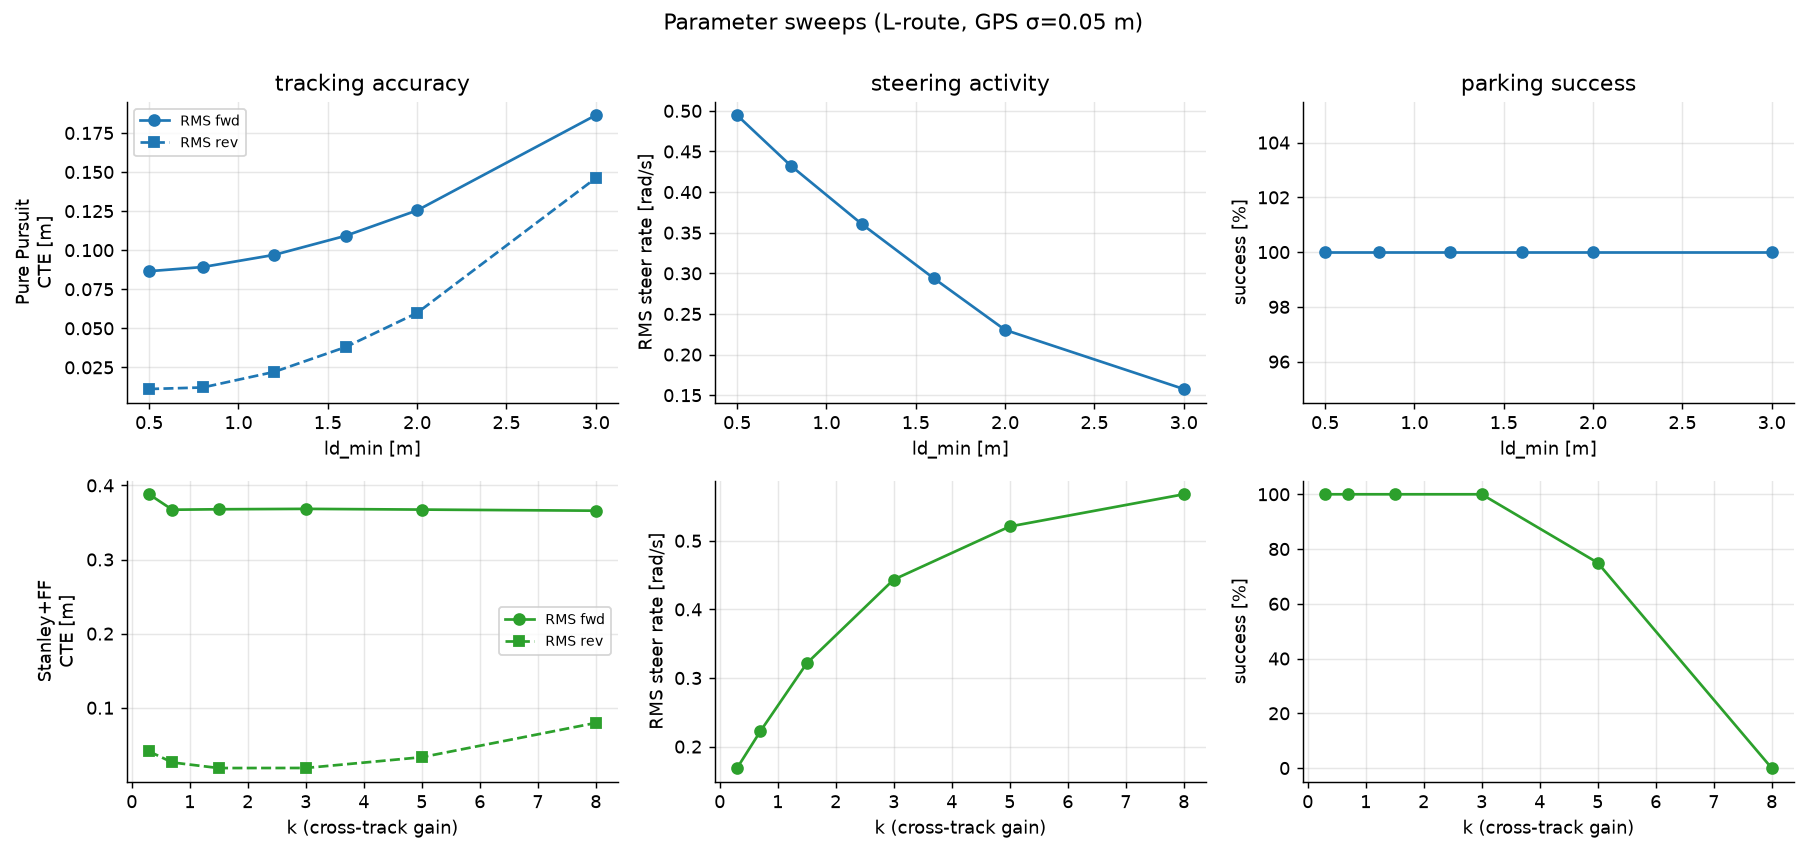
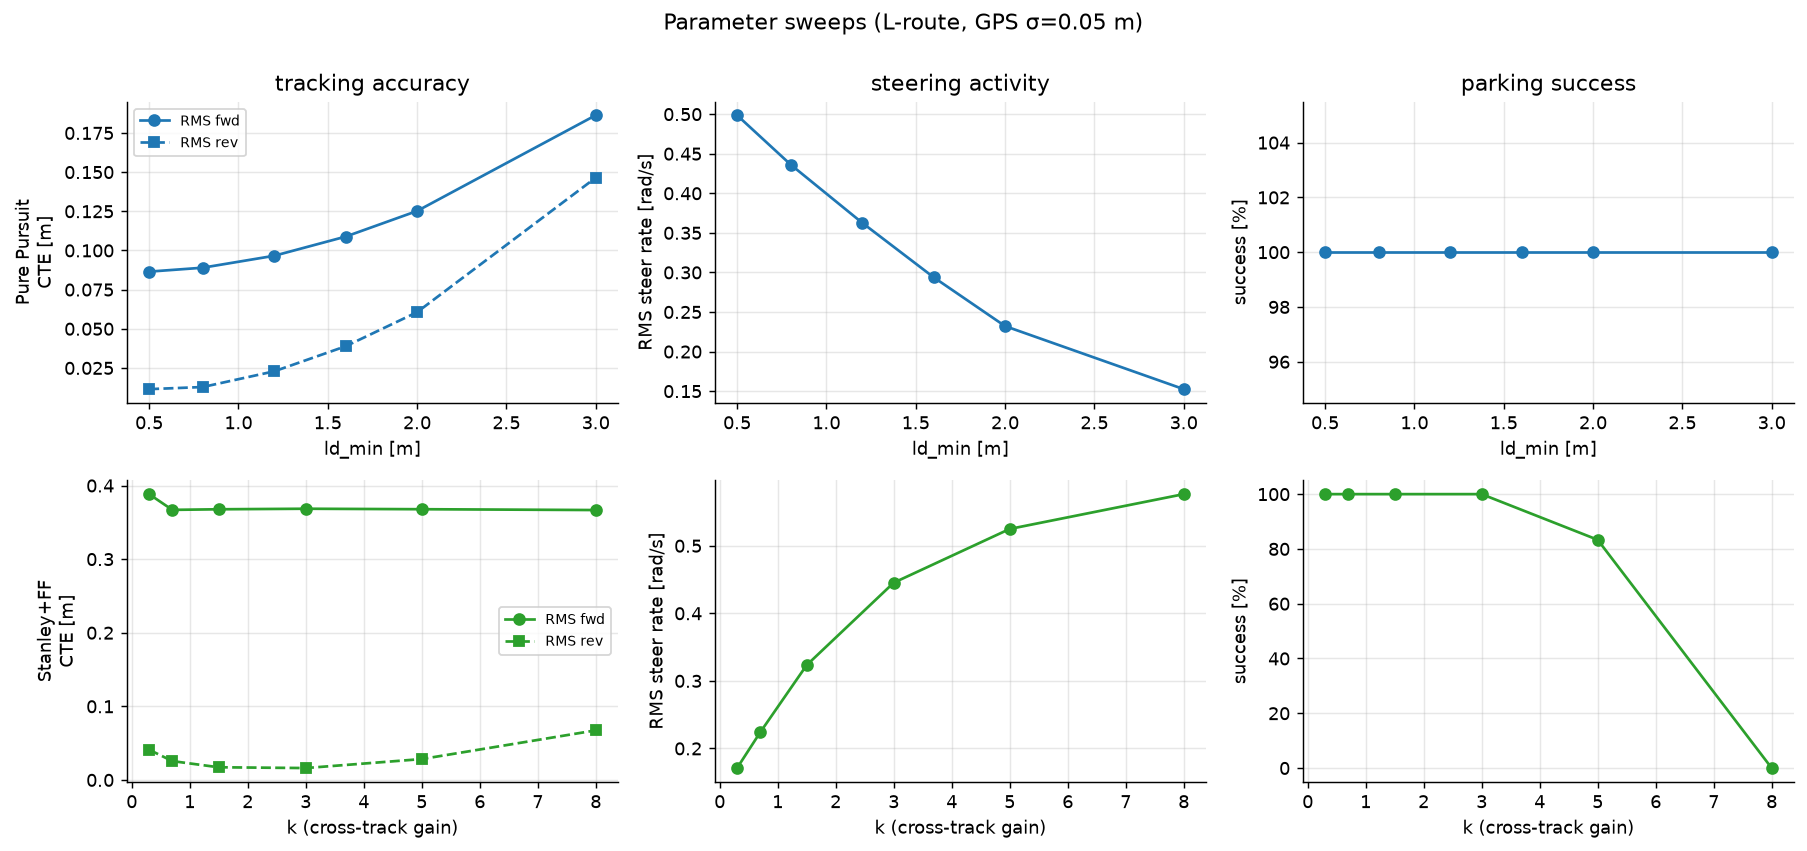
Update M4 results with full run~

diff --git a/results/m4/tables.md b/results/m4/tables.md
@@ -16,22 +16,22 @@
 
 CTE = true rear-axle cross-track error. Success: |lat| ≤ 20 cm, |long| ≤ 30 cm, |yaw| ≤ 3°.
 
-### E2 – Look-ahead / gain sweep (L-route, GPS σ = 0.05 m, 4 seeds)
+### E2 – Look-ahead / gain sweep (L-route, GPS σ = 0.05 m, 6 seeds)
 
 | controller | param | value | RMS CTE fwd [m] | RMS CTE rev [m] | Max CTE rev [m] | RMS steer rate [rad/s] | Final lat [cm] | Success [%] |
 |---|---|---|---|---|---|---|---|---|
-| Pure Pursuit | ld_min [m] | 0.500 | 0.087 | 0.011 | 0.022 | 0.495 | 0.385 | 100 |
-| Pure Pursuit | ld_min [m] | 0.800 | 0.089 | 0.012 | 0.029 | 0.433 | 0.433 | 100 |
-| Pure Pursuit | ld_min [m] | 1.200 | 0.097 | 0.022 | 0.054 | 0.360 | 0.484 | 100 |
-| Pure Pursuit | ld_min [m] | 1.600 | 0.109 | 0.038 | 0.085 | 0.294 | 2.638 | 100 |
-| Pure Pursuit | ld_min [m] | 2.000 | 0.125 | 0.060 | 0.121 | 0.230 | 5.928 | 100 |
-| Pure Pursuit | ld_min [m] | 3.000 | 0.186 | 0.146 | 0.235 | 0.158 | 17.977 | 100 |
-| Stanley+FF | k (cross-track gain) | 0.300 | 0.388 | 0.041 | 0.073 | 0.169 | 3.749 | 100 |
-| Stanley+FF | k (cross-track gain) | 0.700 | 0.367 | 0.026 | 0.051 | 0.222 | 3.225 | 100 |
-| Stanley+FF | k (cross-track gain) | 1.500 | 0.368 | 0.019 | 0.037 | 0.321 | 1.639 | 100 |
-| Stanley+FF | k (cross-track gain) | 3.000 | 0.368 | 0.019 | 0.036 | 0.443 | 0.853 | 100 |
-| Stanley+FF | k (cross-track gain) | 5.000 | 0.367 | 0.033 | 0.062 | 0.521 | 1.931 | 75 |
-| Stanley+FF | k (cross-track gain) | 8.000 | 0.366 | 0.080 | 0.167 | 0.568 | 6.455 | 0 |
+| Pure Pursuit | ld_min [m] | 0.500 | 0.086 | 0.011 | 0.023 | 0.499 | 0.338 | 100 |
+| Pure Pursuit | ld_min [m] | 0.800 | 0.089 | 0.013 | 0.031 | 0.436 | 0.327 | 100 |
+| Pure Pursuit | ld_min [m] | 1.200 | 0.097 | 0.023 | 0.056 | 0.363 | 0.559 | 100 |
+| Pure Pursuit | ld_min [m] | 1.600 | 0.109 | 0.039 | 0.086 | 0.294 | 2.720 | 100 |
+| Pure Pursuit | ld_min [m] | 2.000 | 0.125 | 0.061 | 0.122 | 0.232 | 6.029 | 100 |
+| Pure Pursuit | ld_min [m] | 3.000 | 0.186 | 0.146 | 0.235 | 0.153 | 18.068 | 100 |
+| Stanley+FF | k (cross-track gain) | 0.300 | 0.388 | 0.041 | 0.072 | 0.171 | 3.685 | 100 |
+| Stanley+FF | k (cross-track gain) | 0.700 | 0.367 | 0.026 | 0.050 | 0.224 | 3.065 | 100 |
+| Stanley+FF | k (cross-track gain) | 1.500 | 0.368 | 0.017 | 0.034 | 0.323 | 1.597 | 100 |
+| Stanley+FF | k (cross-track gain) | 3.000 | 0.368 | 0.016 | 0.032 | 0.445 | 0.706 | 100 |
+| Stanley+FF | k (cross-track gain) | 5.000 | 0.368 | 0.028 | 0.055 | 0.525 | 1.764 | 83 |
+| Stanley+FF | k (cross-track gain) | 8.000 | 0.367 | 0.067 | 0.143 | 0.576 | 7.256 | 0 |
 
 ### E3a – Speed-PID step response (0 → 2 m/s)
 
@@ -54,40 +54,40 @@ CTE = true rear-axle cross-track error. Success: |lat| ≤ 20 cm, |long| ≤ 30 
 | P only + FF | 0.148 | 2.671 | 2.911 | 30.126 | 100 |
 | PI aggressive + FF | 0.045 | 4.325 | 4.690 | 27.798 | 100 |
 
-### E4 – Robustness to GPS/compass noise, with and without the pose filter (L-route, 6 seeds per cell)
+### E4 – Robustness to GPS/compass noise, with and without the pose filter (L-route, 20 seeds per cell)
 
 | GPS σ [m] | controller | RMS CTE [m] | ± std | Max CTE rev [m] | Final lat [cm] | ± std  | Final long [cm] | ± std   | Final yaw [deg] | Success [%] |
 |---|---|---|---|---|---|---|---|---|---|---|
-| 0.000 | Pure Pursuit | 0.075 | 0.000 | 0.057 | 0.677 | 0.074 | 0.715 | 0.210 | 0.615 | 100 |
-| 0.000 | Stanley+FF | 0.275 | 0.001 | 0.032 | 1.497 | 0.049 | 0.610 | 0.202 | 0.672 | 100 |
-| 0.000 | Stanley | 0.391 | 0.002 | 0.672 | 14.721 | 0.115 | 0.621 | 0.237 | 3.585 | 0 |
-| 0.000 | Pure Pursuit + filter | 0.073 | 0.000 | 0.055 | 0.561 | 0.085 | 0.676 | 0.133 | 0.564 | 100 |
-| 0.000 | Stanley+FF + filter | 0.274 | 0.001 | 0.038 | 1.601 | 0.019 | 0.708 | 0.275 | 0.727 | 100 |
-| 0.020 | Pure Pursuit | 0.074 | 0.000 | 0.056 | 0.642 | 0.080 | 0.272 | 0.315 | 0.595 | 100 |
-| 0.020 | Stanley+FF | 0.275 | 0.001 | 0.033 | 1.535 | 0.135 | 0.673 | 0.600 | 0.670 | 100 |
-| 0.020 | Stanley | 0.390 | 0.003 | 0.670 | 14.798 | 0.278 | 1.224 | 0.526 | 3.542 | 0 |
-| 0.020 | Pure Pursuit + filter | 0.073 | 0.000 | 0.054 | 0.528 | 0.094 | 0.660 | 0.336 | 0.543 | 100 |
-| 0.020 | Stanley+FF + filter | 0.274 | 0.001 | 0.038 | 1.733 | 0.165 | 0.680 | 0.283 | 0.737 | 100 |
-| 0.050 | Pure Pursuit | 0.075 | 0.001 | 0.056 | 0.542 | 0.242 | 2.009 | 0.826 | 0.551 | 100 |
-| 0.050 | Stanley+FF | 0.278 | 0.002 | 0.034 | 1.639 | 0.409 | 2.162 | 1.239 | 0.726 | 100 |
-| 0.050 | Stanley | 0.393 | 0.004 | 0.671 | 14.980 | 0.461 | 2.360 | 0.632 | 3.574 | 0 |
-| 0.050 | Pure Pursuit + filter | 0.073 | 0.001 | 0.053 | 0.468 | 0.206 | 1.142 | 0.698 | 0.512 | 100 |
-| 0.050 | Stanley+FF + filter | 0.274 | 0.002 | 0.039 | 1.946 | 0.396 | 0.687 | 0.492 | 0.766 | 100 |
-| 0.100 | Pure Pursuit | 0.076 | 0.001 | 0.057 | 0.535 | 0.207 | 6.194 | 2.306 | 0.404 | 100 |
-| 0.100 | Stanley+FF | 0.282 | 0.003 | 0.038 | 1.752 | 0.784 | 9.208 | 4.154 | 0.725 | 100 |
-| 0.100 | Stanley | 0.397 | 0.005 | 0.680 | 16.581 | 0.899 | 7.653 | 2.579 | 3.509 | 17 |
-| 0.100 | Pure Pursuit + filter | 0.073 | 0.001 | 0.051 | 0.518 | 0.152 | 1.516 | 0.714 | 0.465 | 100 |
-| 0.100 | Stanley+FF + filter | 0.275 | 0.003 | 0.043 | 2.337 | 0.762 | 0.770 | 0.753 | 0.824 | 100 |
-| 0.200 | Pure Pursuit | 0.084 | 0.004 | 0.087 | 0.780 | 0.705 | 22.457 | 5.887 | 0.613 | 83 |
-| 0.200 | Stanley+FF | 0.293 | 0.007 | 0.063 | 2.555 | 2.307 | 19.157 | 4.427 | 0.830 | 100 |
-| 0.200 | Stanley | 0.421 | 0.008 | 0.720 | 21.097 | 2.710 | 27.353 | 10.181 | 4.569 | 0 |
-| 0.200 | Pure Pursuit + filter | 0.075 | 0.002 | 0.053 | 0.685 | 0.523 | 2.329 | 0.923 | 0.401 | 100 |
-| 0.200 | Stanley+FF + filter | 0.276 | 0.006 | 0.055 | 3.267 | 1.493 | 1.639 | 1.067 | 0.998 | 100 |
-| 0.300 | Pure Pursuit | 0.100 | 0.008 | 0.135 | 1.059 | 0.940 | 41.161 | 9.362 | 1.189 | 0 |
-| 0.300 | Stanley+FF | 0.305 | 0.011 | 0.092 | 3.841 | 4.172 | 29.252 | 9.217 | 1.266 | 50 |
-| 0.300 | Stanley | 0.443 | 0.014 | 0.760 | 25.012 | 4.595 | 39.927 | 10.842 | 6.547 | 0 |
-| 0.300 | Pure Pursuit + filter | 0.078 | 0.004 | 0.060 | 0.931 | 0.917 | 3.584 | 2.244 | 0.539 | 100 |
-| 0.300 | Stanley+FF + filter | 0.277 | 0.009 | 0.070 | 4.136 | 2.308 | 4.259 | 4.856 | 1.179 | 83 |
+| 0.000 | Pure Pursuit | 0.075 | 0.000 | 0.057 | 0.697 | 0.111 | 0.738 | 0.239 | 0.582 | 100 |
+| 0.000 | Stanley+FF | 0.275 | 0.001 | 0.033 | 1.449 | 0.086 | 0.621 | 0.194 | 0.666 | 100 |
+| 0.000 | Stanley | 0.391 | 0.002 | 0.674 | 14.743 | 0.216 | 0.613 | 0.182 | 3.556 | 0 |
+| 0.000 | Pure Pursuit + filter | 0.073 | 0.000 | 0.055 | 0.576 | 0.126 | 0.722 | 0.319 | 0.538 | 100 |
+| 0.000 | Stanley+FF + filter | 0.274 | 0.002 | 0.039 | 1.548 | 0.100 | 0.631 | 0.263 | 0.720 | 100 |
+| 0.020 | Pure Pursuit | 0.074 | 0.000 | 0.057 | 0.679 | 0.151 | 0.587 | 0.574 | 0.579 | 100 |
+| 0.020 | Stanley+FF | 0.275 | 0.002 | 0.034 | 1.384 | 0.247 | 0.673 | 0.462 | 0.650 | 100 |
+| 0.020 | Stanley | 0.391 | 0.003 | 0.674 | 14.798 | 0.343 | 0.959 | 0.531 | 3.557 | 0 |
+| 0.020 | Pure Pursuit + filter | 0.073 | 0.000 | 0.055 | 0.557 | 0.169 | 0.774 | 0.447 | 0.539 | 100 |
+| 0.020 | Stanley+FF + filter | 0.274 | 0.001 | 0.039 | 1.544 | 0.263 | 0.701 | 0.434 | 0.717 | 100 |
+| 0.050 | Pure Pursuit | 0.075 | 0.001 | 0.058 | 0.634 | 0.320 | 1.755 | 1.384 | 0.589 | 100 |
+| 0.050 | Stanley+FF | 0.278 | 0.002 | 0.036 | 1.294 | 0.573 | 2.051 | 1.054 | 0.680 | 100 |
+| 0.050 | Stanley | 0.395 | 0.004 | 0.679 | 15.126 | 0.549 | 1.891 | 1.278 | 3.513 | 0 |
+| 0.050 | Pure Pursuit + filter | 0.073 | 0.000 | 0.055 | 0.529 | 0.303 | 1.109 | 0.738 | 0.539 | 100 |
+| 0.050 | Stanley+FF + filter | 0.274 | 0.002 | 0.041 | 1.543 | 0.583 | 0.983 | 0.703 | 0.716 | 100 |
+| 0.100 | Pure Pursuit | 0.076 | 0.001 | 0.060 | 0.696 | 0.573 | 5.634 | 3.242 | 0.603 | 100 |
+| 0.100 | Stanley+FF | 0.283 | 0.003 | 0.040 | 1.383 | 0.867 | 7.507 | 3.891 | 0.728 | 100 |
+| 0.100 | Stanley | 0.404 | 0.007 | 0.700 | 16.918 | 0.995 | 6.497 | 3.822 | 3.473 | 15 |
+| 0.100 | Pure Pursuit + filter | 0.074 | 0.001 | 0.054 | 0.537 | 0.504 | 1.628 | 1.137 | 0.541 | 100 |
+| 0.100 | Stanley+FF + filter | 0.275 | 0.003 | 0.044 | 1.646 | 0.973 | 1.572 | 1.235 | 0.729 | 100 |
+| 0.200 | Pure Pursuit | 0.084 | 0.004 | 0.085 | 1.255 | 1.321 | 19.182 | 7.115 | 0.759 | 90 |
+| 0.200 | Stanley+FF | 0.295 | 0.007 | 0.066 | 2.308 | 1.742 | 18.485 | 6.552 | 1.164 | 95 |
+| 0.200 | Stanley | 0.430 | 0.012 | 0.750 | 21.587 | 2.085 | 20.255 | 9.886 | 4.291 | 0 |
+| 0.200 | Pure Pursuit + filter | 0.075 | 0.002 | 0.058 | 0.778 | 0.888 | 3.237 | 1.686 | 0.558 | 100 |
+| 0.200 | Stanley+FF + filter | 0.276 | 0.006 | 0.057 | 2.334 | 1.415 | 2.799 | 2.174 | 0.821 | 100 |
+| 0.300 | Pure Pursuit | 0.101 | 0.010 | 0.140 | 1.770 | 2.021 | 36.071 | 9.038 | 1.194 | 20 |
+| 0.300 | Stanley+FF | 0.309 | 0.010 | 0.113 | 4.041 | 2.858 | 33.423 | 11.112 | 1.826 | 25 |
+| 0.300 | Stanley | 0.458 | 0.019 | 0.801 | 25.145 | 3.266 | 35.788 | 10.034 | 6.472 | 0 |
+| 0.300 | Pure Pursuit + filter | 0.078 | 0.003 | 0.067 | 1.282 | 1.152 | 4.731 | 2.300 | 0.653 | 100 |
+| 0.300 | Stanley+FF + filter | 0.277 | 0.008 | 0.071 | 3.087 | 1.900 | 3.946 | 3.619 | 1.027 | 95 |
 
 Compass σ = 0.01 + 0.05·σ_gps rad, speed σ = 0.02 m/s. Filter = dead-reckoning + GPS correction (α = β = 0.1).
 
